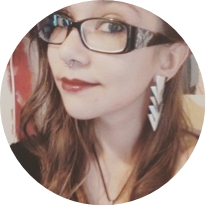
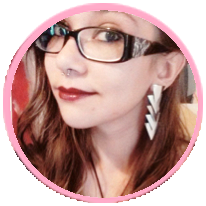
Com as fotos dos membros.

diff --git a/pyladies/pyladies/core/constants.py b/pyladies/pyladies/core/constants.py
@@ -51,26 +51,26 @@ SECTIONS = {
 
 MEMBERS = [
 	[
-		{"nome": "Caroline", "status": "Estudante", "foto": "core/img/members/nobody.png",
+		{"nome": "Caroline", "status": "Estudante", "foto": "core/img/members/caroline.png",
 			"socialnetworks": {"facebook": "...", "twitter": "...", "github": "..."}
 		},
-		{"nome": "Dally", "status": "Estudante", "foto": "core/img/members/nobody.png",
+		{"nome": "Dally", "status": "Estudante", "foto": "core/img/members/dally.png",
 			"socialnetworks": {"facebook": "...", "twitter": "...", "github": "..."}
 		},
-		{"nome": "Ingrid", "status": "Estudante", "foto": "core/img/members/nobody.png",
+		{"nome": "Ingrid", "status": "Estudante", "foto": "core/img/members/ingrid.png",
 			"socialnetworks": {"facebook": "...", "twitter": "...", "github": "..."}
 		},
-		{"nome": "Izabela", "status": "Estudante", "foto": "core/img/members/nobody.png",
+		{"nome": "Izabela", "status": "Estudante", "foto": "core/img/members/izabela.png",
 			"socialnetworks": {"facebook": "...", "twitter": "...", "github": "..."}
 		}				
 	],[
 		{"nome": "Jéssica", "status": "Estudante", "foto": "core/img/members/jessica.png",
 			"socialnetworks": {"facebook": "...", "twitter": "...", "github": "..."}
 		},
-		{"nome": "Priscila", "status": "Estudante", "foto": "core/img/members/nobody.png",
+		{"nome": "Priscila", "status": "Estudante", "foto": "core/img/members/priscila.png",
 			"socialnetworks": {"facebook": "...", "twitter": "...", "github": "..."}
 		},
-		{"nome": "Rodrigo", "status": "Estudante", "foto": "core/img/members/nobody.png",
+		{"nome": "Rodrigo", "status": "Estudante", "foto": "core/img/members/rodrigo.png",
 			"socialnetworks": {"facebook": "...", "twitter": "...", "github": "..."}
 		},
 		{"nome": "Verônica", "status": "Estudante", "foto": "core/img/members/veronica.png",
